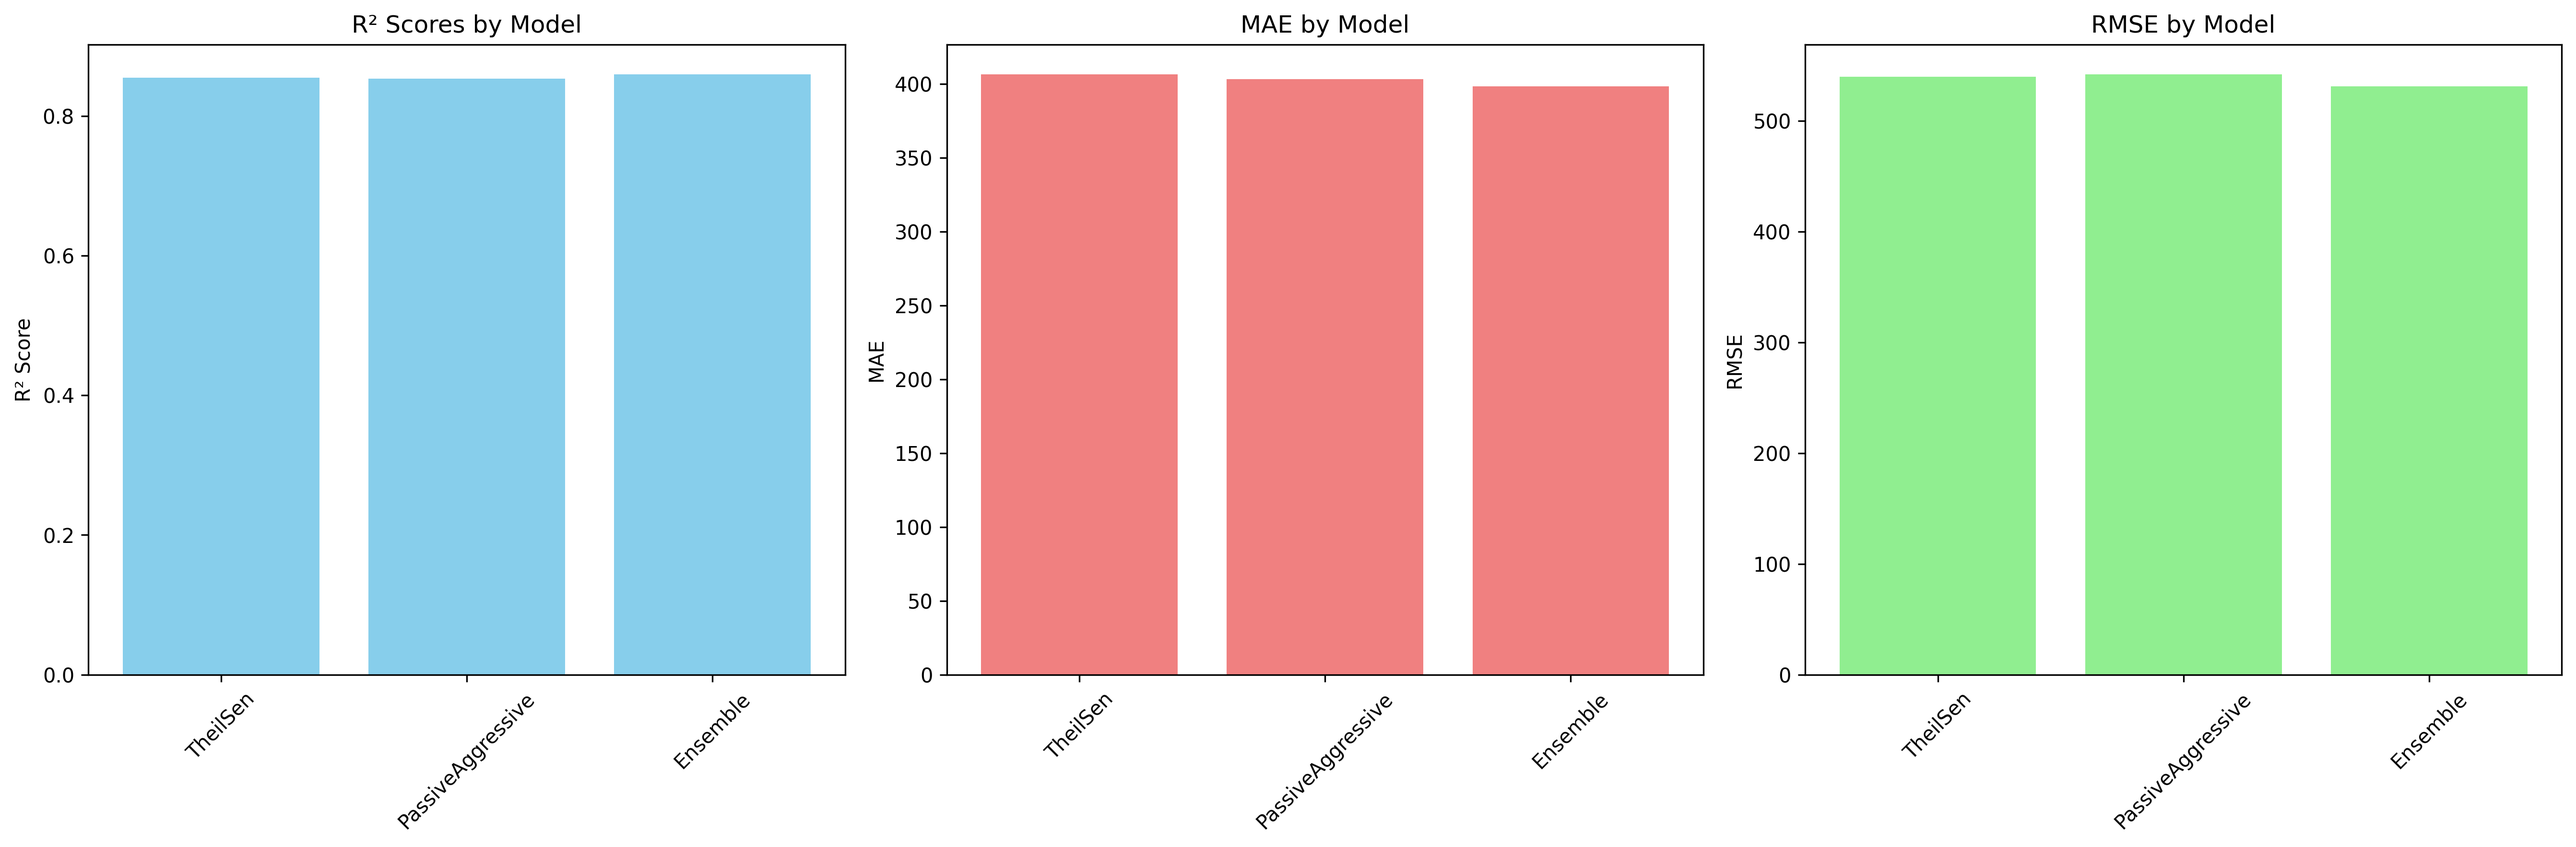
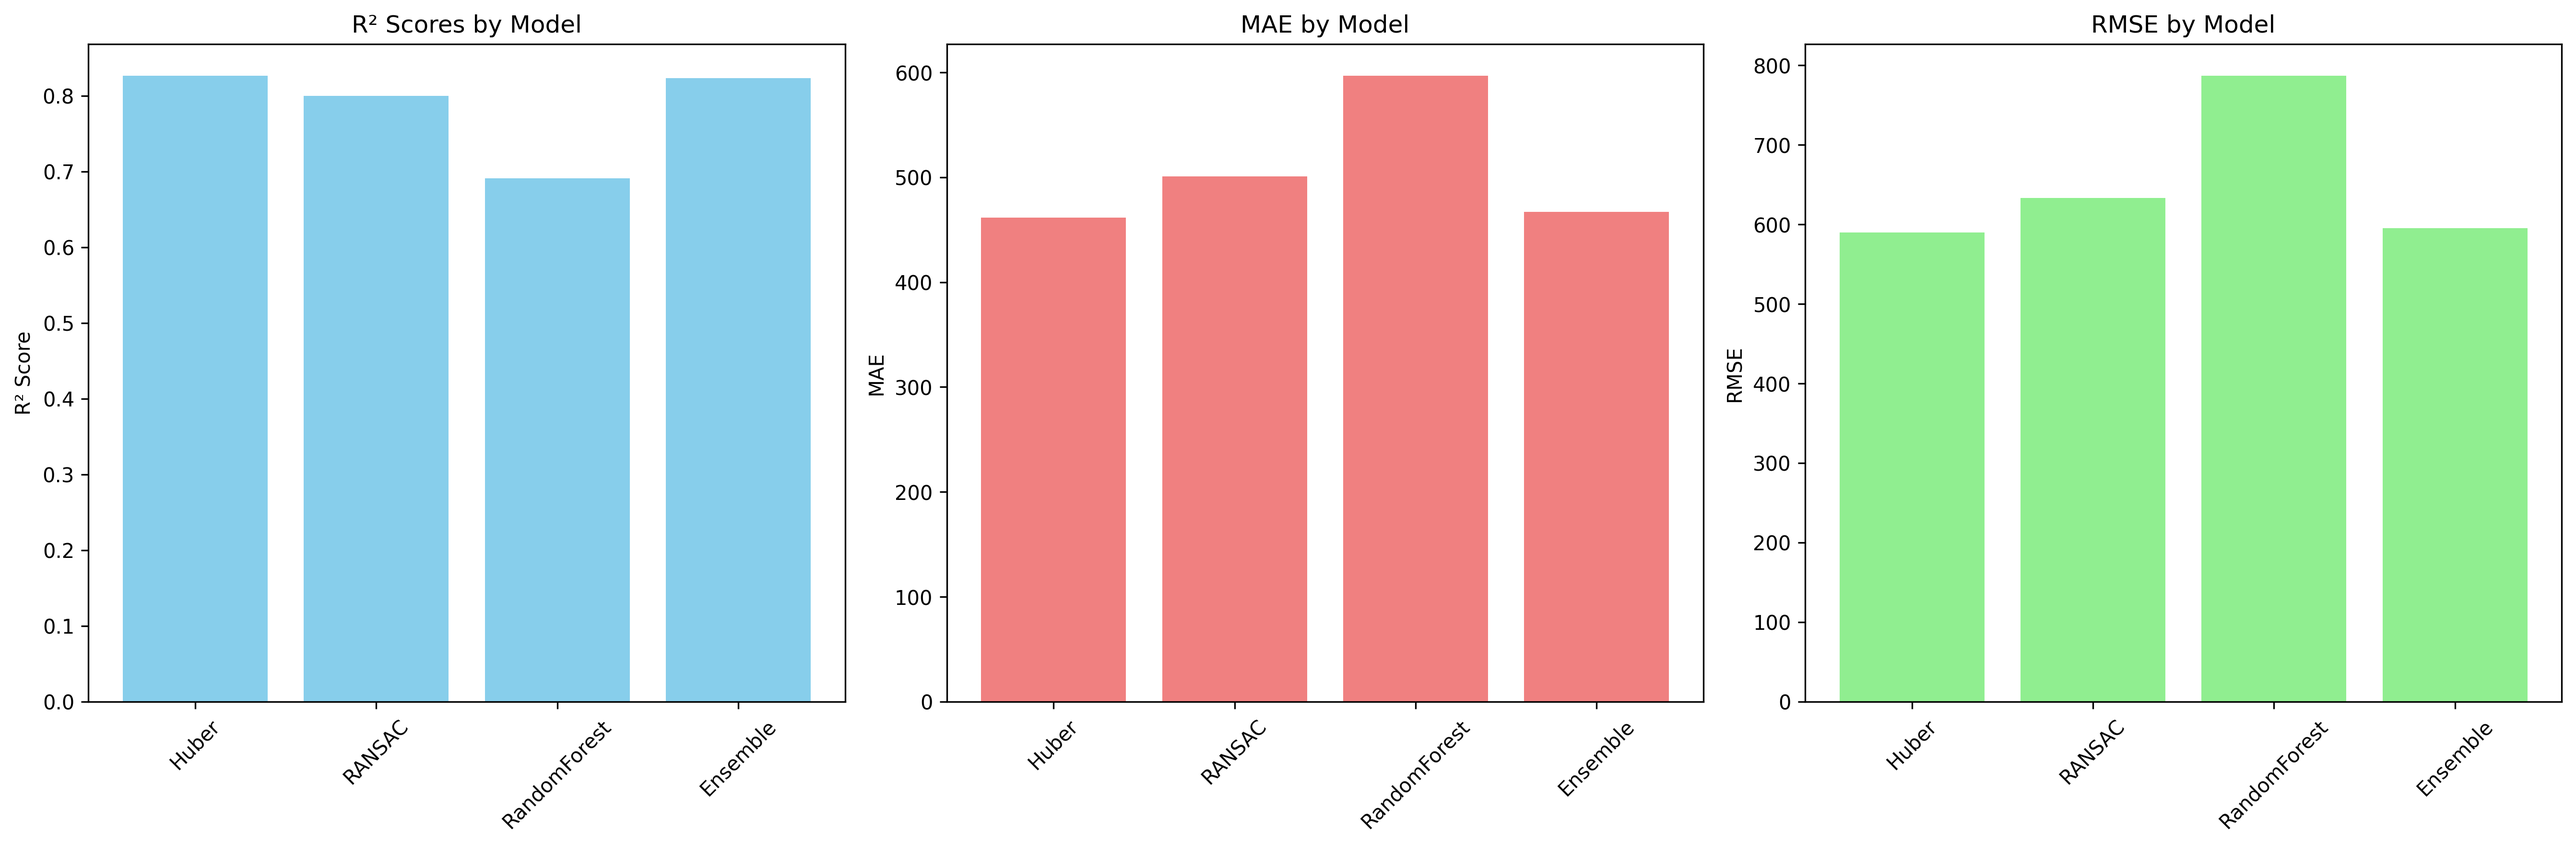
Improved Model Performance

diff --git a/rental_price_prediction/modeling/train.py b/rental_price_prediction/modeling/train.py
@@ -3,9 +3,10 @@ import numpy as np
 import joblib
 from sklearn.pipeline import Pipeline
 from sklearn.metrics import mean_squared_error, mean_absolute_error, r2_score
-from sklearn.linear_model import TheilSenRegressor, PassiveAggressiveRegressor
-from sklearn.ensemble import VotingRegressor
+from sklearn.linear_model import HuberRegressor, RANSACRegressor
+from sklearn.ensemble import VotingRegressor, RandomForestRegressor
 import matplotlib.pyplot as plt
+import time
 
 from ..config import *
 from ..features import create_preprocessor
@@ -14,8 +15,12 @@ def train_models(X_train, y_train):
     preprocessor = create_preprocessor()
     
     models = {
-        "TheilSen": TheilSenRegressor(**MODEL_PARAMS['theilsen']),
-        "PassiveAggressive": PassiveAggressiveRegressor(**MODEL_PARAMS['passive_aggressive']),
+        "Huber": HuberRegressor(**MODEL_PARAMS['huber']),
+        "RANSAC": RANSACRegressor(**MODEL_PARAMS['ransac']),
+        "RandomForest": RandomForestRegressor(
+            n_estimators=200, max_depth=15, min_samples_split=5,
+            min_samples_leaf=2, max_features='sqrt', random_state=RANDOM_STATE, n_jobs=-1
+        )
     }
     
     trained_models = {}
@@ -37,9 +42,9 @@ def create_ensemble_model(X_train, y_train):
     ensemble = Pipeline([
         ('preprocessor', preprocessor),
         ('model', VotingRegressor([
-            ('theilsen', TheilSenRegressor(**MODEL_PARAMS['theilsen'])),
-            ('passive_aggressive', PassiveAggressiveRegressor(**MODEL_PARAMS['passive_aggressive']))
-        ]))
+            ('huber', HuberRegressor(**MODEL_PARAMS['huber'])),
+            ('ransac', RANSACRegressor(**MODEL_PARAMS['ransac']))
+        ], weights=MODEL_PARAMS['ensemble_weights']))
     ])
     
     ensemble.fit(X_train, y_train)
@@ -52,10 +57,8 @@ def evaluate_model(model, X_test, y_test, model_name="Model"):
     mae = mean_absolute_error(y_test, y_pred)
     r2 = r2_score(y_test, y_pred)
     
-    print(f"\n{model_name} Performance:")
-    print(f"  RMSE: {rmse:.2f}")
-    print(f"  MAE : {mae:.2f}")
-    print(f"  R²  : {r2:.4f}")
+    print(f"{model_name}:")
+    print(f"  R²: {r2:.4f} | RMSE: {rmse:.0f} | MAE: {mae:.0f}")
     
     return {'rmse': rmse, 'mae': mae, 'r2': r2}
 

diff --git a/rental_price_prediction/modeling/predict.py b/rental_price_prediction/modeling/predict.py
@@ -3,14 +3,12 @@ import joblib
 from ..config import *
 
 class RentalPricePredictor:
-    def __init__(self, model_path=None, preprocessor_path=None):
+    def __init__(self, model_path=None):
         if model_path is None:
             model_path = MODEL_FILE
-        if preprocessor_path is None:
-            preprocessor_path = PREPROCESSOR_FILE
             
         self.model = joblib.load(model_path)
-        self.preprocessor = joblib.load(preprocessor_path)
+        self.preprocessor = self.model.named_steps['preprocessor']
         
     def predict(self, X):
         if isinstance(X, dict):
@@ -23,12 +21,6 @@ class RentalPricePredictor:
     def predict_single(self, property_features):
         prediction = self.predict(property_features)
         return prediction[0] if len(prediction) == 1 else prediction
-    
-    def get_feature_importance(self):
-        try:
-            return joblib.load(FEATURE_IMPORTANCE_FILE)
-        except:
-            return None
 
 def load_predictor():
     return RentalPricePredictor()
@@ -37,7 +29,7 @@ if __name__ == "__main__":
     predictor = load_predictor()
     
     sample_property = {
-        'Size_in_Sqft': 1000,
+        'Size_in_Sqft': 1200,
         'Bedrooms': 3,
         'Bathrooms': 2,
         'Property_Age': 5,
@@ -48,4 +40,4 @@ if __name__ == "__main__":
     }
     
     prediction = predictor.predict_single(sample_property)
-    print(f"Predicted rental price: ${prediction:.2f}")
+    print(f"Predicted rental price: LKR {prediction:.2f}")

diff --git a/main.py b/main.py
@@ -16,8 +16,16 @@ def main():
         
         plot_model_comparison(results)
         
+        best_r2 = results['Ensemble']['r2']
         logger.info("Pipeline completed successfully!")
-        logger.info(f"Best model R²: {results['Ensemble']['r2']:.4f}")
+        logger.info(f"Final Ensemble R²: {best_r2:.4f}")
+        
+        print("\n" + "="*50)
+        print("FINAL MODEL SUMMARY")
+        print("="*50)
+        print("Selected: Huber + RANSAC Ensemble")
+        print(f"Performance: R² = {best_r2:.4f}")
+        print("Model saved to: models/best_rental_price_model.pkl")
         
     except Exception as e:
         logger.error(f"Pipeline failed with error: {e}")

diff --git a/rental_price_prediction/config.py b/rental_price_prediction/config.py
@@ -40,16 +40,15 @@ IMPUTER_STRATEGY_NUM = 'median'
 IMPUTER_STRATEGY_CAT = 'most_frequent'
 
 MODEL_PARAMS = {
-    'theilsen': {
-        'max_subpopulation': 1000,
-        'n_subsamples': None,
-        'max_iter': 300,
+    'huber': {
+        'epsilon': 1.35,
+        'alpha': 0.0001,
+        'max_iter': 1000
+    },
+    'ransac': {
+        'min_samples': 0.5,
+        'residual_threshold': None,
         'random_state': RANDOM_STATE
     },
-    'passive_aggressive': {
-        'C': 1.0,
-        'epsilon': 0.1,
-        'max_iter': 1000,
-        'random_state': RANDOM_STATE
-    }
+    'ensemble_weights': [3, 1]
 }

diff --git a/rental_price_prediction/__init__.py b/rental_price_prediction/__init__.py
@@ -1,1 +1,1 @@
-from rental_price_prediction import config  # noqa: F401
+from rental_price_prediction import config  
